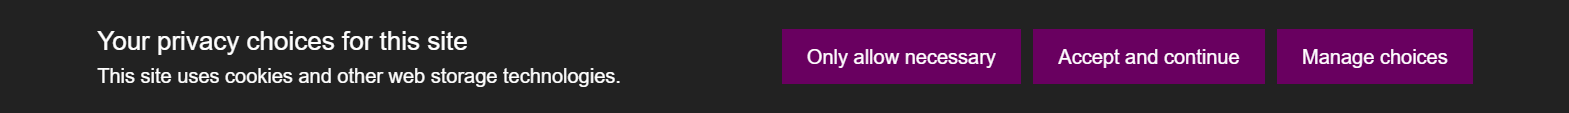
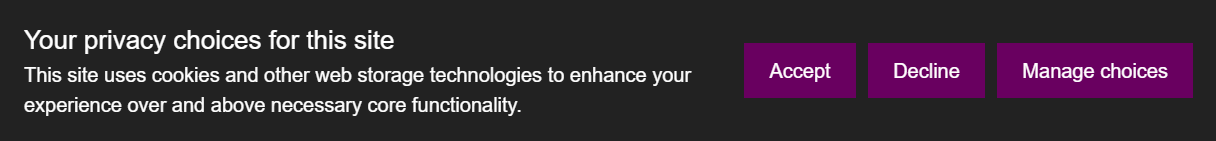
Updated live demo site.

Changed region(s): [[0.0, 0.2124, 1.0, 0.823]]

diff --git a/examples/necessary-only/index.html b/examples/necessary-only/index.html
@@ -64,22 +64,29 @@
                 alt="Privacy Choices banner prompt" />
 
             <h3 class="mt-5">Examples // Necessary storage only</h3>
-            <p>This example uses the default configuration with no categories defined. This is the minimal use case,
-                where a site uses only 'necessary' cookies that it must inform the user about. There is no requirement
-                to get the user's consent because there are no non-necessary categories in use. The library therefore
-                just lets the user dismiss the notification. The settings menu remains so that the user can get more
-                information, including viewing your privacy policy.</p>
-            <p>The only use case more minimal than this one would be when no cookies are used on a site whatsoever. In
-                such a case there would be no need to use this library!</p>
+
+            <p>This example shows how the library handles the most basic use case - when a site uses only 'strictly-necessary' storage. A user must be informed that the site uses this storage, but there is no need to provide a choice because the storage is only used to enable core site functionality. The only use case more minimal than this one would be when no storage is used on a site whatsoever but in such a case there would be no need to use this library!</p>
+
+            <h5 class="mt-5">Overview</h5>
+
+            <p>When no categories are defined in the configuration, the banner lets a user simply dismiss the notification. They are also able to open the settings panel, however in this configuration the language has been set up to use wording such as 'information' and 'details' rather than 'choices'.</p>
+
+            <p>The menu remains accessible via the normal toggle to act as a privacy information area. A user could still access your privacy policy from here.</p>
+
+            <p>A configuration such as this one would satisfy the need to inform users that you use only the most necessary of storage to make your site function properly. If there is any analytical, marketing, etc. storage on your site you will need to set up consent categories to manage user choices.<p>
+
+            <h5 class="mt-5">Callback log</h5>
+
+            <p>All categories should have defined in configuration two callbacks - one for when a user toggles the category on and one for when the user toggles the category off. The necessary category also has a callback that will run once when the user loads the page.<p>
+
+            <p>Below is a log of these callbacks being executed as you use this example:</p>
 
             <h5 class="mt-5">Clear preferences</h5>
+
             <p>You may find it useful to <a
                     href='javascript:(function(){document.cookie.split(";").forEach(function(c) { document.cookie = c.replace(/^ +/, "").replace(/=.*/, "=;expires=" + new Date().toUTCString() + ";path=/"); }); window.location.reload(true)})();'
                     class="button">clear preferences and reload the page</a> as you explore these examples. Doing so
                 will make it as if you have just come to the page for the very first time.</p>
-
-            <h5 class="mt-5">Console log</h5>
-            test
 
             <h5 class="mt-5">Notice</h5>
             <p>Having different configurations of consent choice categories on the same domain isn't really how this

diff --git a/examples/standard-usage/index.html b/examples/standard-usage/index.html
@@ -64,22 +64,24 @@
                 alt="Privacy Choices banner prompt" />
 
             <h3 class="mt-5">Examples // Standard usage</h3>
-            <p>This example uses the default configuration with no categories defined. This is the minimal use case,
-                where a site uses only 'necessary' cookies that it must inform the user about. There is no requirement
-                to get the user's consent because there are no non-necessary categories in use. The library therefore
-                just lets the user dismiss the notification. The settings menu remains so that the user can get more
-                information, including viewing your privacy policy.</p>
-            <p>The only use case more minimal than this one would be when no cookies are used on a site whatsoever. In
-                such a case there would be no need to use this library!</p>
+            
+            <p></p>
+
+            <h5 class="mt-5">Overview</h5>
+
+            <p><p>
+
+            <h5 class="mt-5">Callback log</h5>
+
+            <p>All categories should have defined in configuration two callbacks - one for when a user toggles the category on and one for when the user toggles the category off. The necessary category also has a callback that will run once when the user loads the page.<p>
+
+            <p>Below is a log of these callbacks being executed as you use this example:</p>
 
             <h5 class="mt-5">Clear preferences</h5>
             <p>You may find it useful to <a
                     href='javascript:(function(){document.cookie.split(";").forEach(function(c) { document.cookie = c.replace(/^ +/, "").replace(/=.*/, "=;expires=" + new Date().toUTCString() + ";path=/"); }); window.location.reload(true)})();'
                     class="button">clear preferences and reload the page</a> as you explore these examples. Doing so
                 will make it as if you have just come to the page for the very first time.</p>
-
-            <h5 class="mt-5">Console log</h5>
-            test
 
             <h5 class="mt-5">Notice</h5>
             <p>Having different configurations of consent choice categories on the same domain isn't really how this

diff --git a/examples/index.html b/examples/index.html
@@ -65,15 +65,6 @@
             <p>This site is provided as a live demo of the library. Various configurations are available from the
                 navigation bar to demonstrate all that the library has to offer.</p>
 
-            <h5 class="mt-5">Clear preferences</h5>
-            <p>You may find it useful to <a
-                    href='javascript:(function(){document.cookie.split(";").forEach(function(c) { document.cookie = c.replace(/^ +/, "").replace(/=.*/, "=;expires=" + new Date().toUTCString() + ";path=/"); }); window.location.reload(true)})();'
-                    class="button">clear preferences and reload the page</a> as you explore these examples. Doing so
-                will make it as if you have just come to the page for the very first time.</p>
-
-            <h5 class="mt-5">Console log</h5>
-            test
-
             <h5 class="mt-5">Notice</h5>
             <p>Having different configurations of consent choice categories on the same domain isn't really how this
                 library should be used. Privacy Choices will ask the user for consent again if it detects a different
